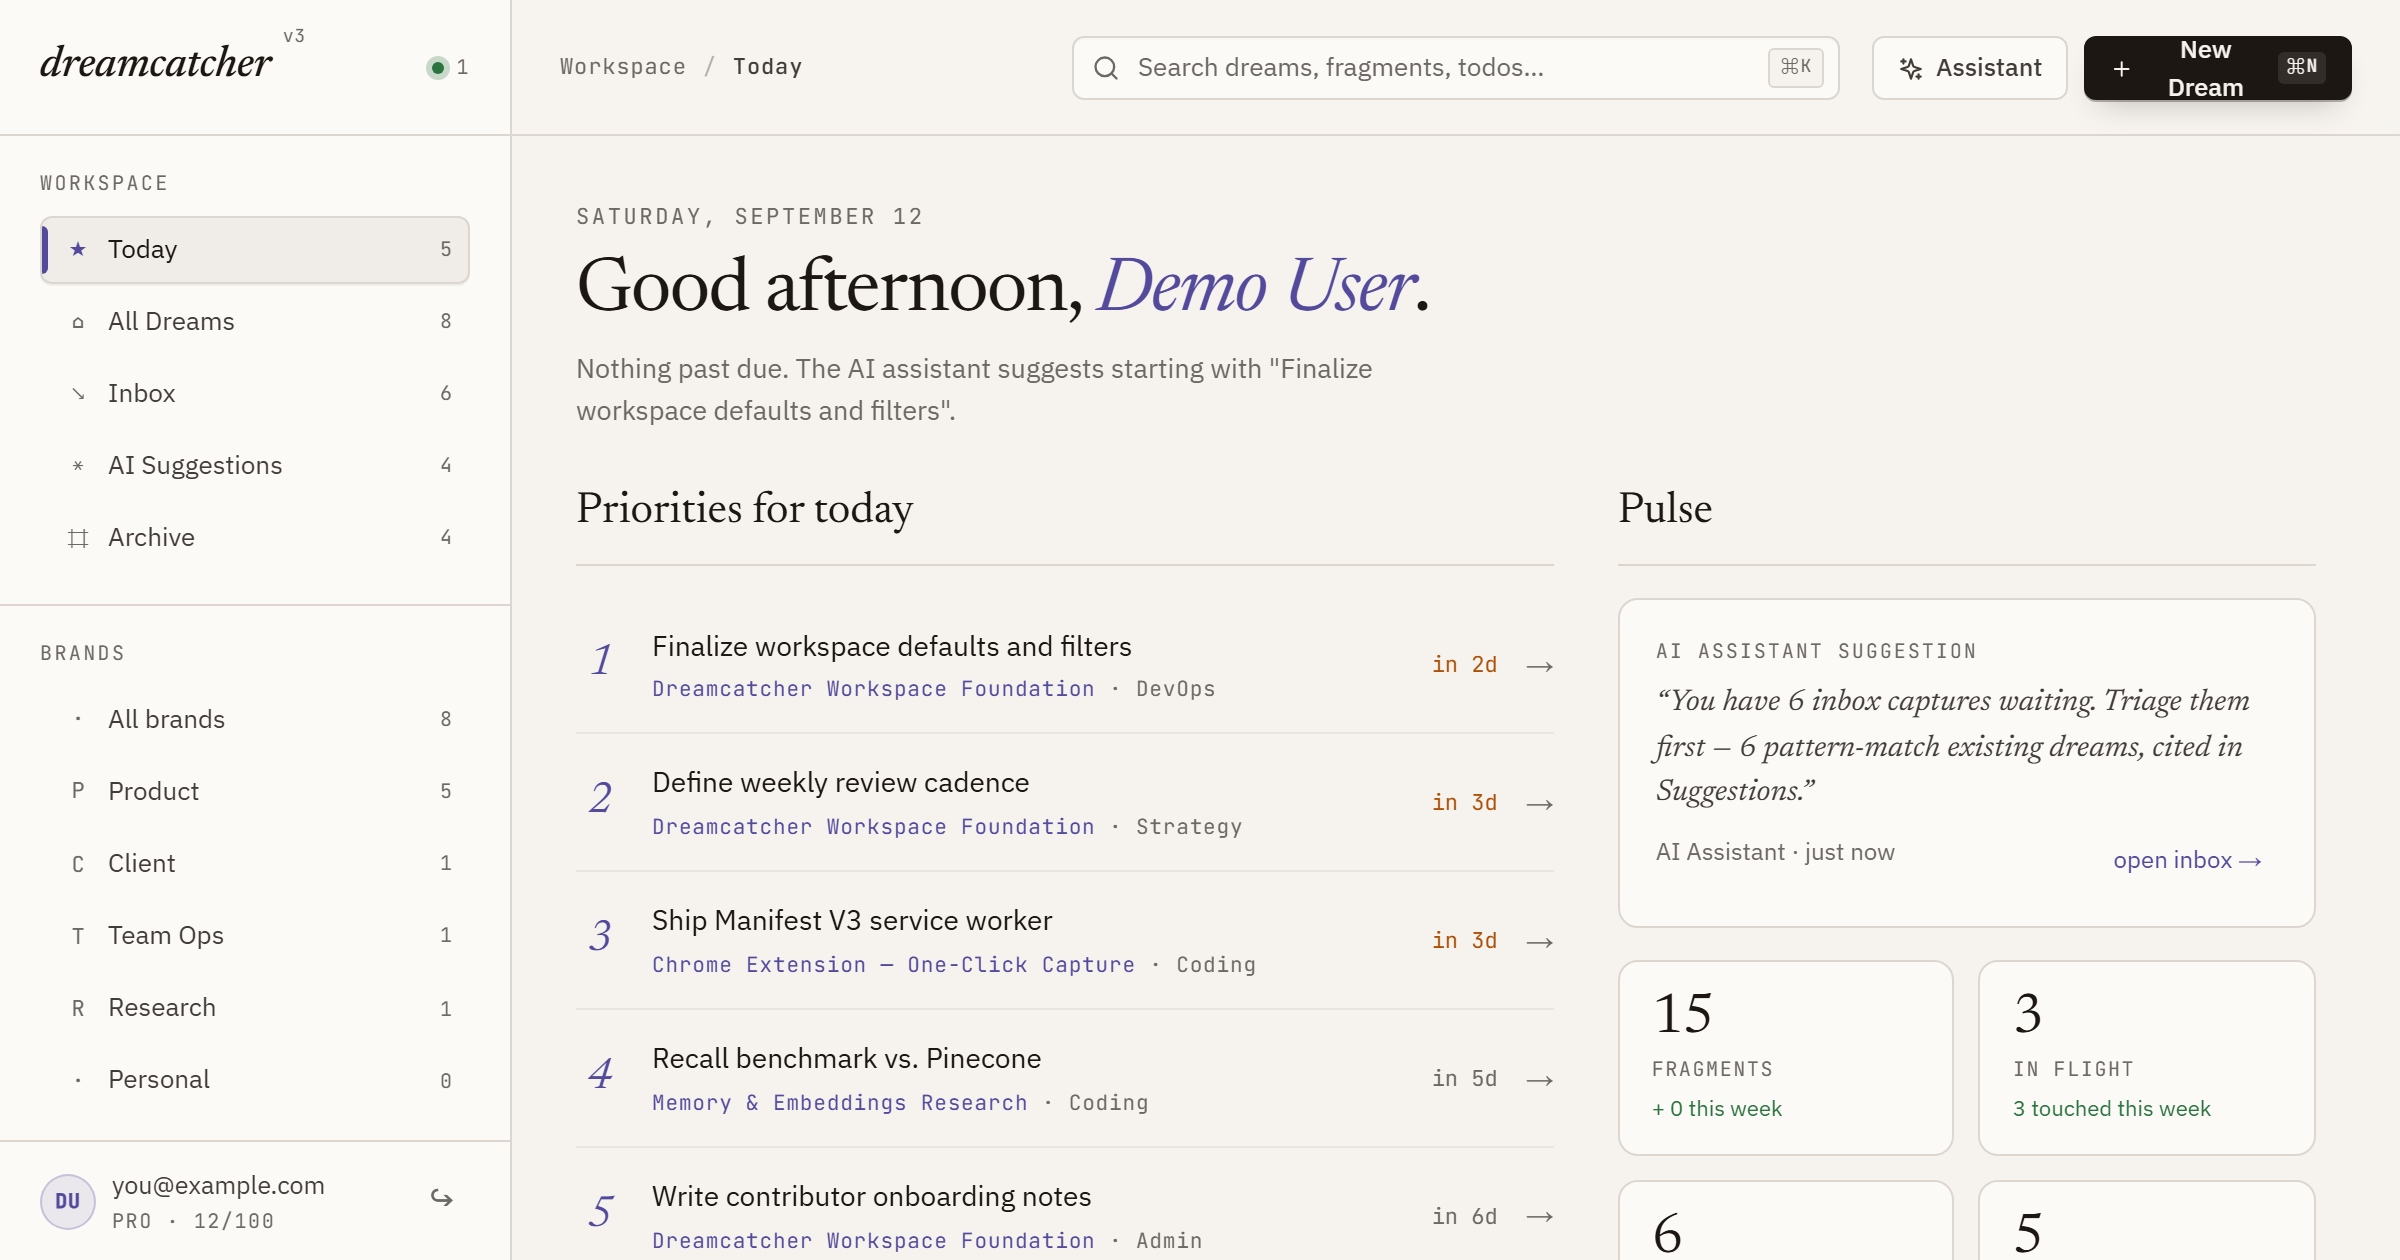
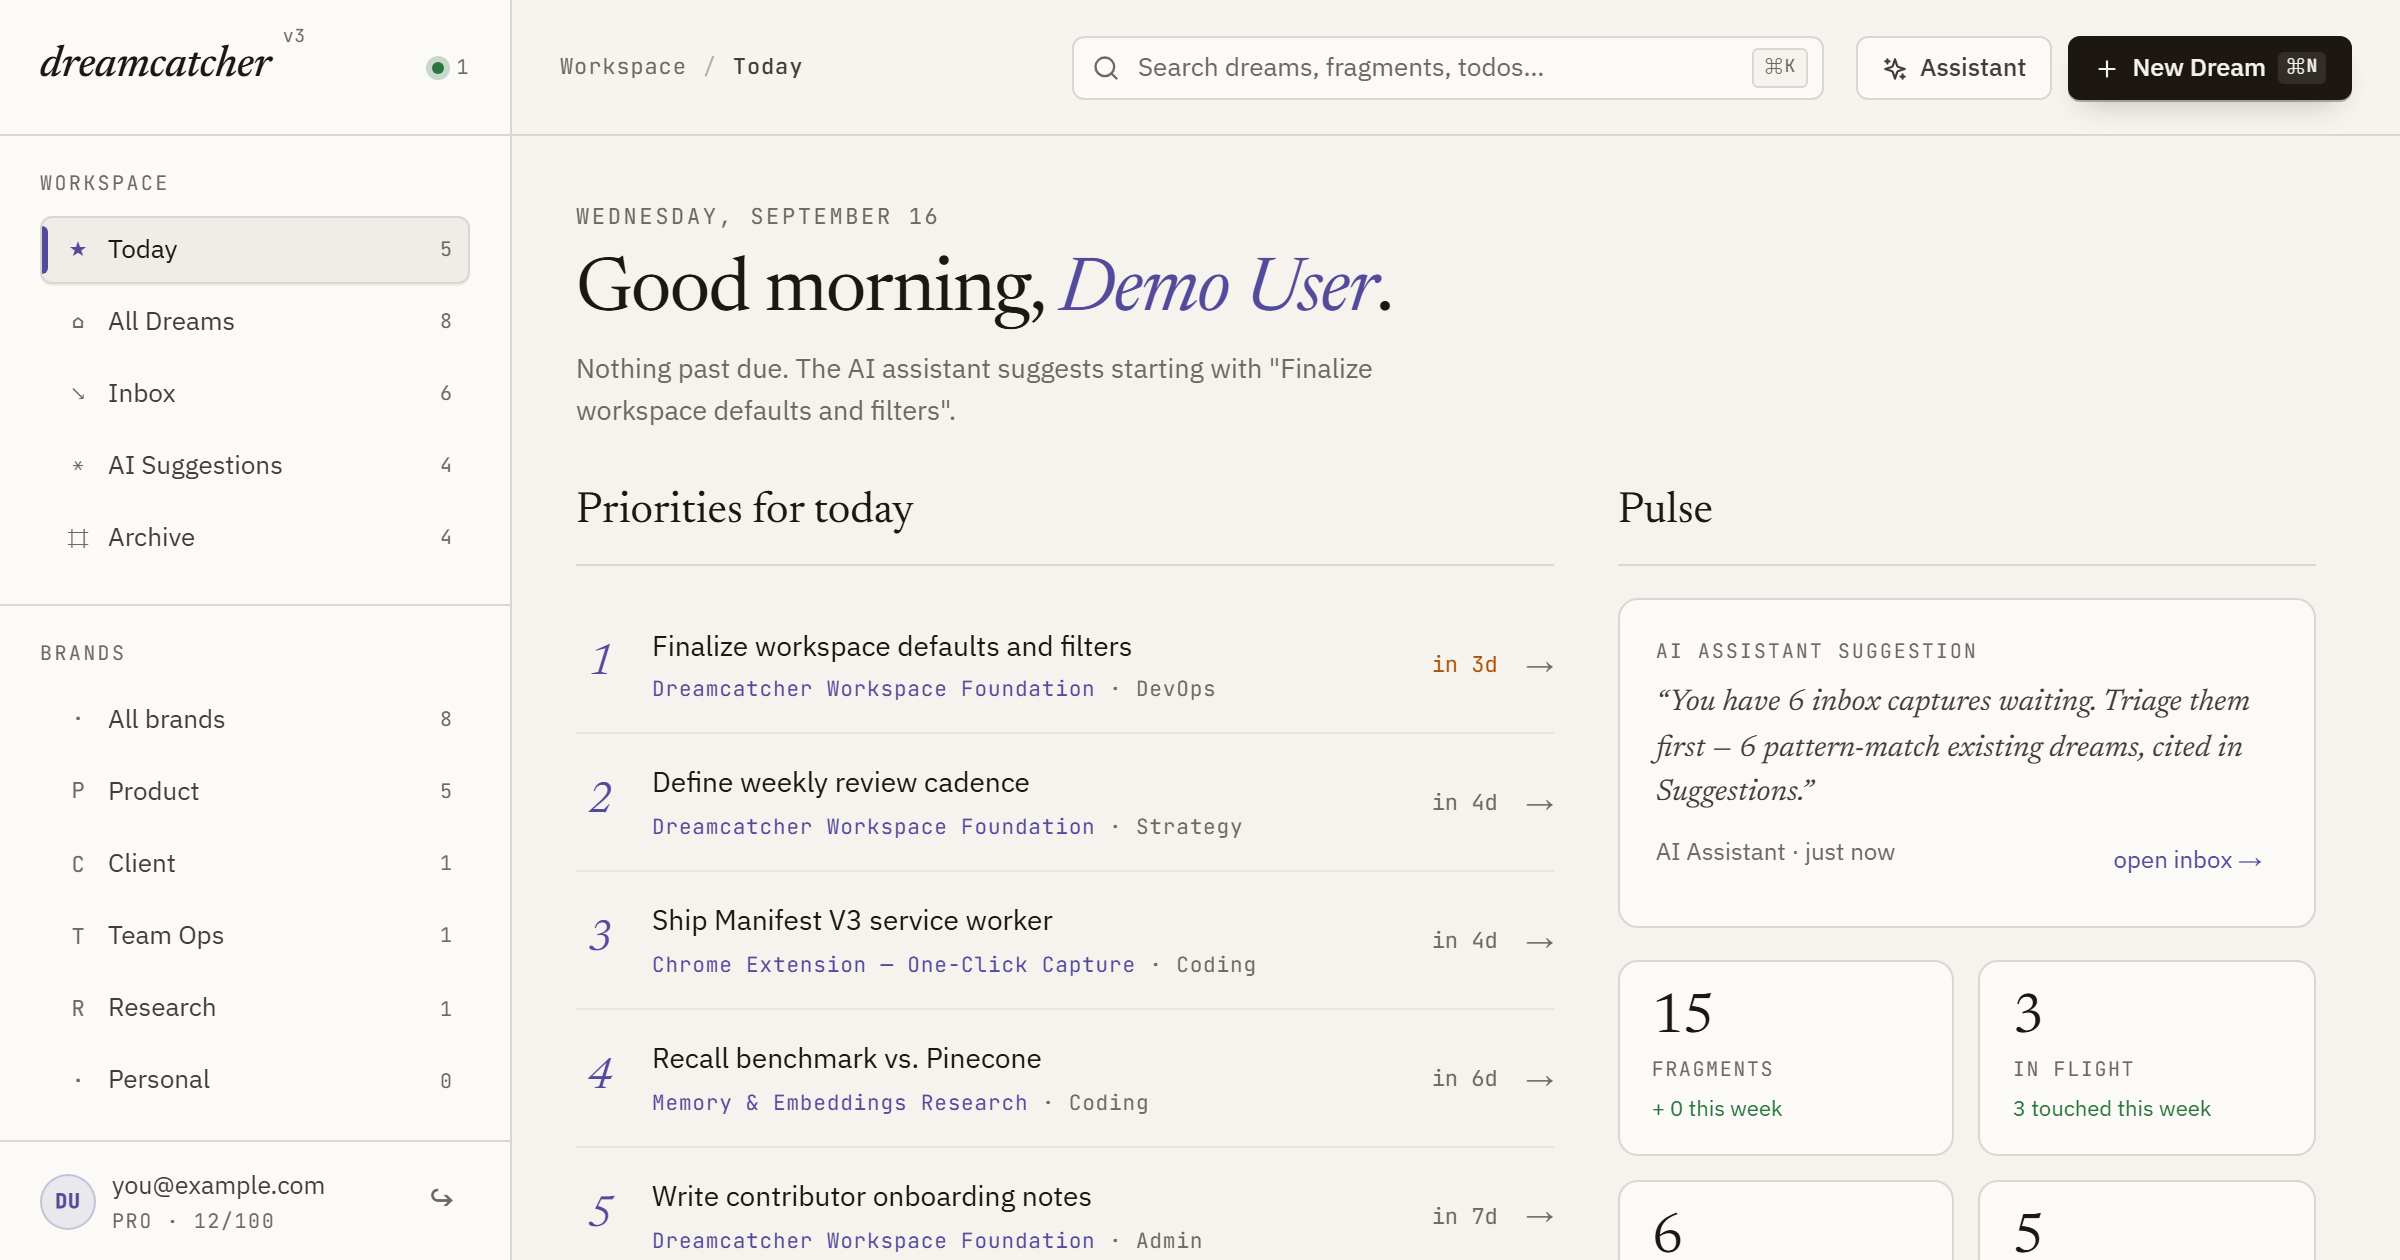
fix(topbar): actions track sizes to content — "New Dream" wrapped at the app's full-width point
Found by the reveal OG capture (1520px, T-1): the topbar's third grid track was
capped at 240px, so "Assistant" + "New Dream ⌘N" wrapped onto two lines on the
very screen that unfurls in DMs. The track is now max-content and the search
track (minmax(0, 480px)) gives way; action buttons never wrap. OG card
recaptured from the build. Gates: lint, unit 8/8, e2e 41/41, sweeps clean.

diff --git a/src/field-notebook/theme.css b/src/field-notebook/theme.css
@@ -870,7 +870,11 @@
   /* ===== Topbar ===== */
   .fn-topbar {
     display: grid;
-    grid-template-columns: minmax(0, 240px) minmax(0, 480px) minmax(0, 240px);
+    /* Actions track sizes to its content: a fixed 240px cap wrapped the
+       "New Dream ⌘N" button onto two lines at the app's own full-width point
+       (1520px) — visible on the reveal OG card, 2026-09-16. The search track
+       gives way instead (minmax(0, 480px)). */
+    grid-template-columns: minmax(0, 240px) minmax(0, 480px) max-content;
     align-items: center;
     justify-content: space-between;
     gap: calc(var(--u) * 4);
@@ -935,6 +939,9 @@
   }
 
   /* ===== Buttons ===== */
+  .fn-topbar-actions .fn-btn {
+    white-space: nowrap;
+  }
   .fn-btn {
     display: inline-flex;
     align-items: center;
